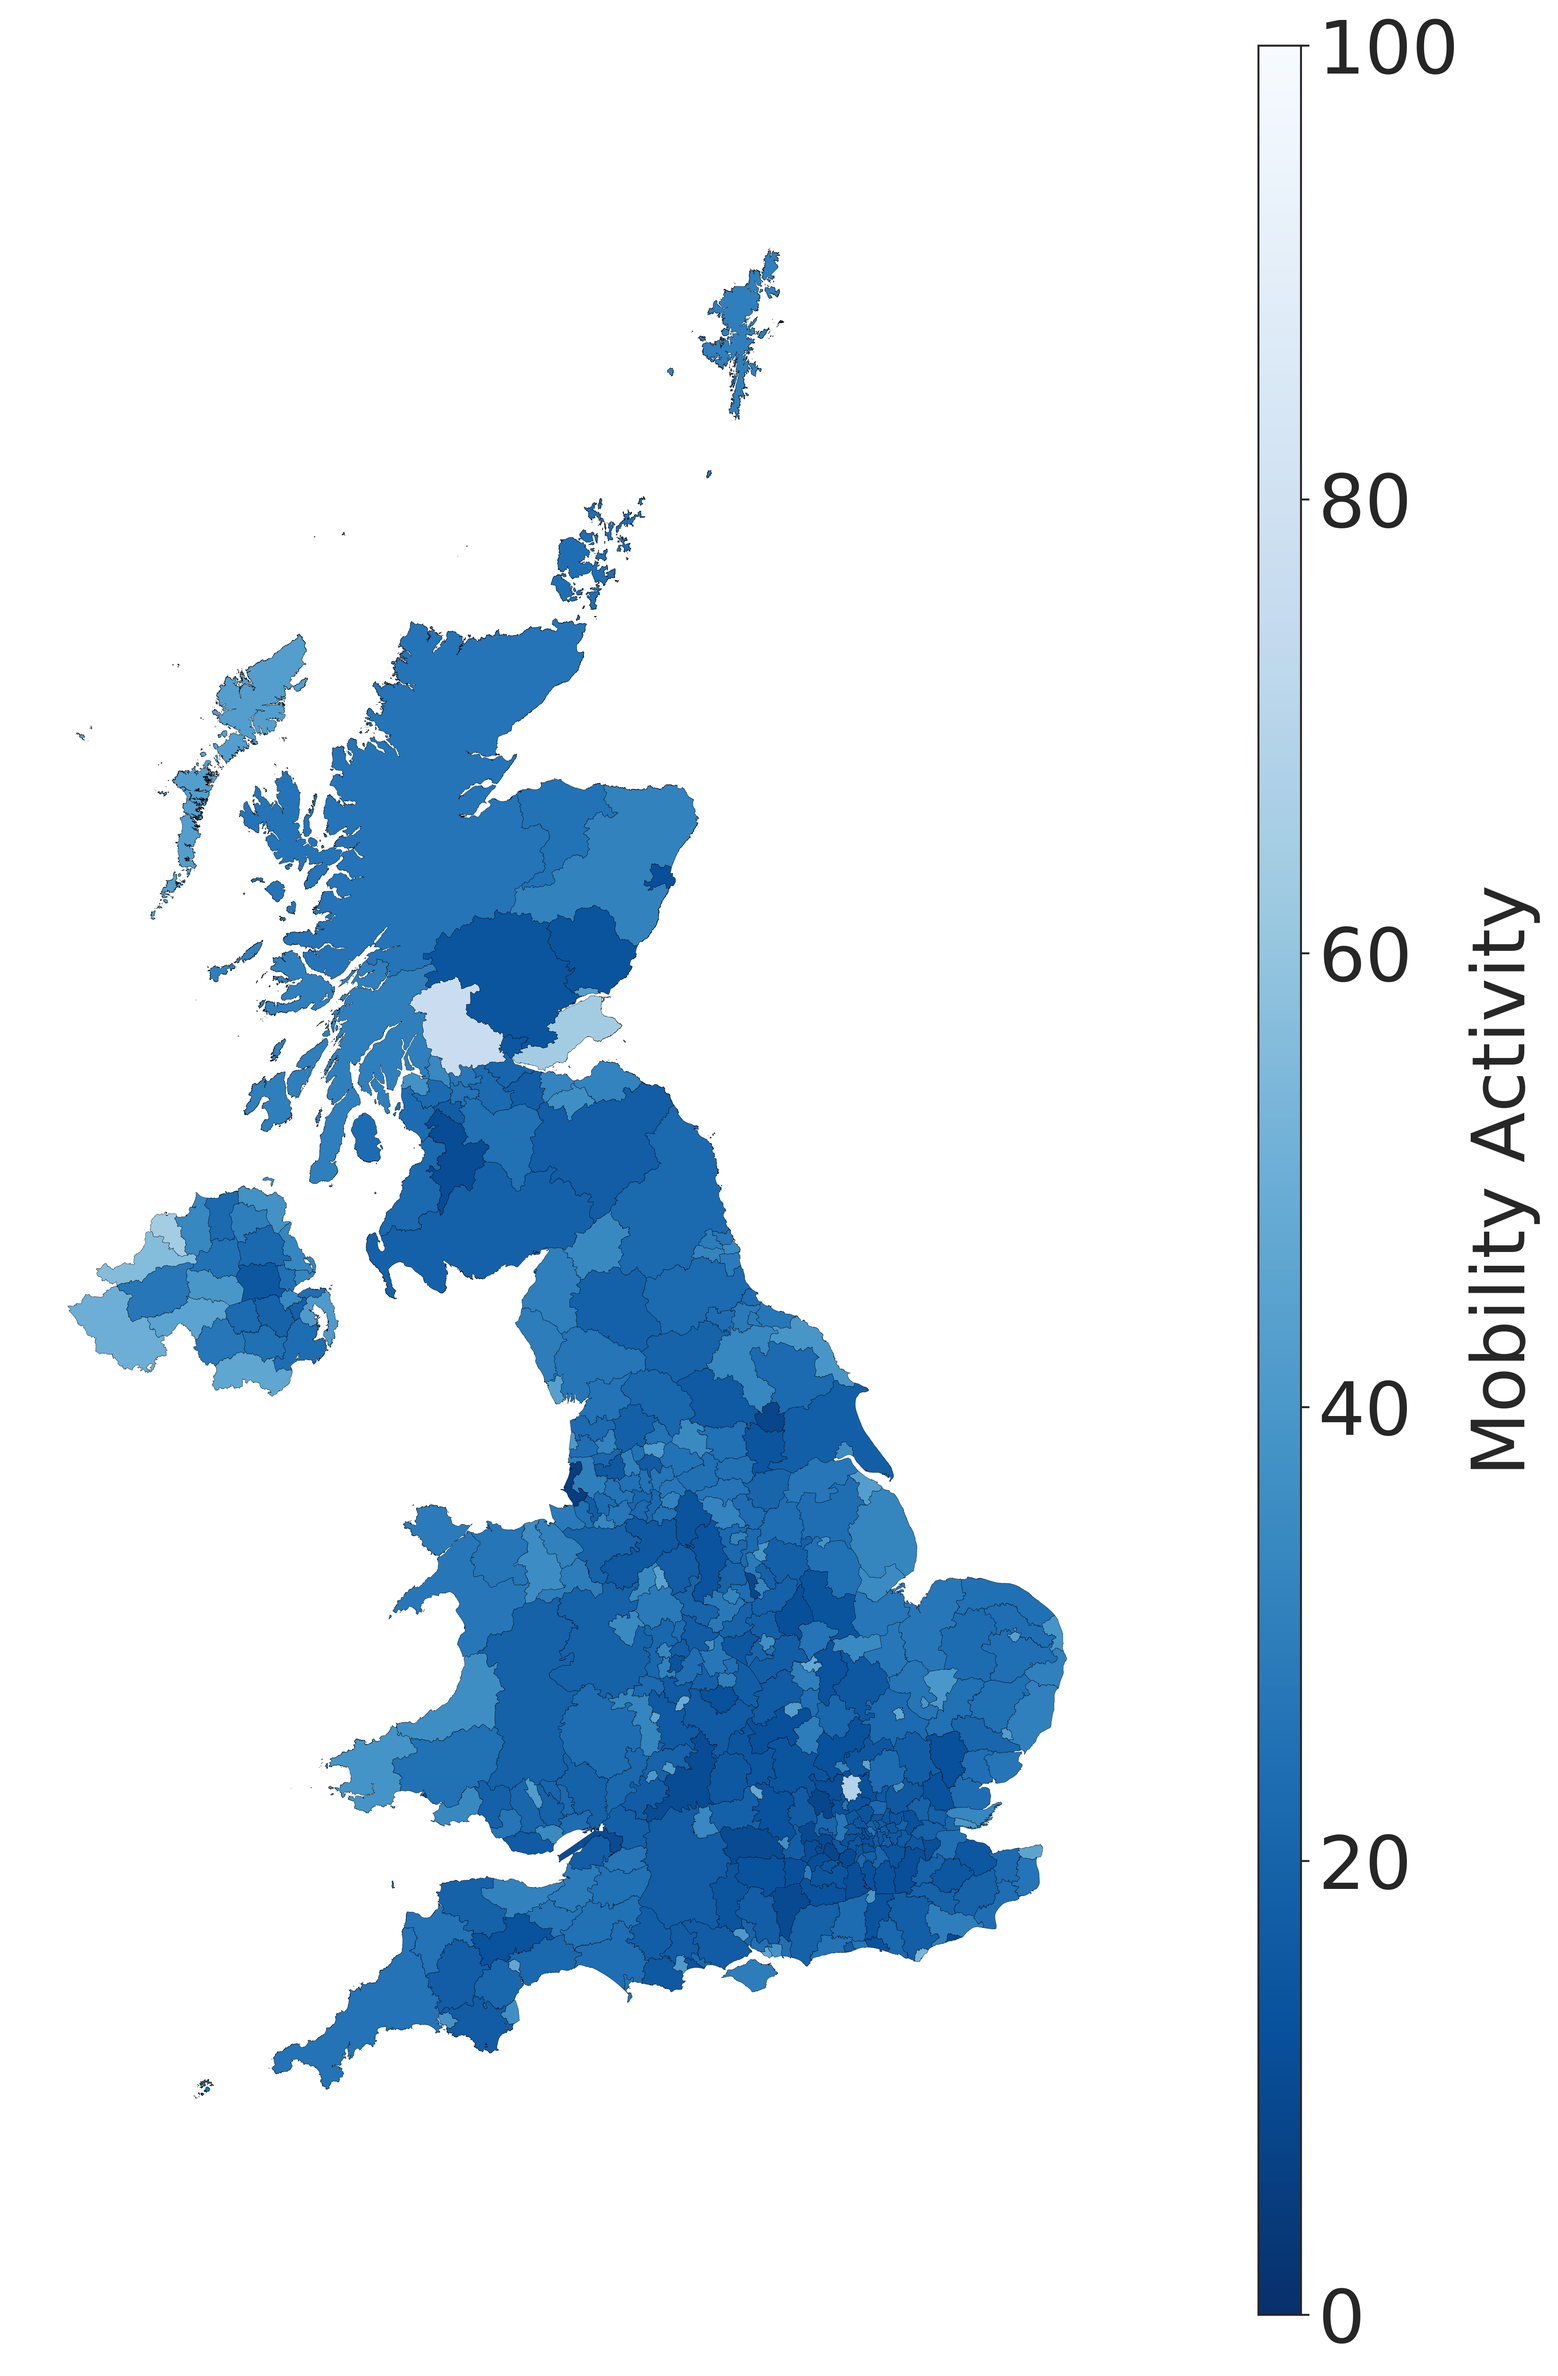
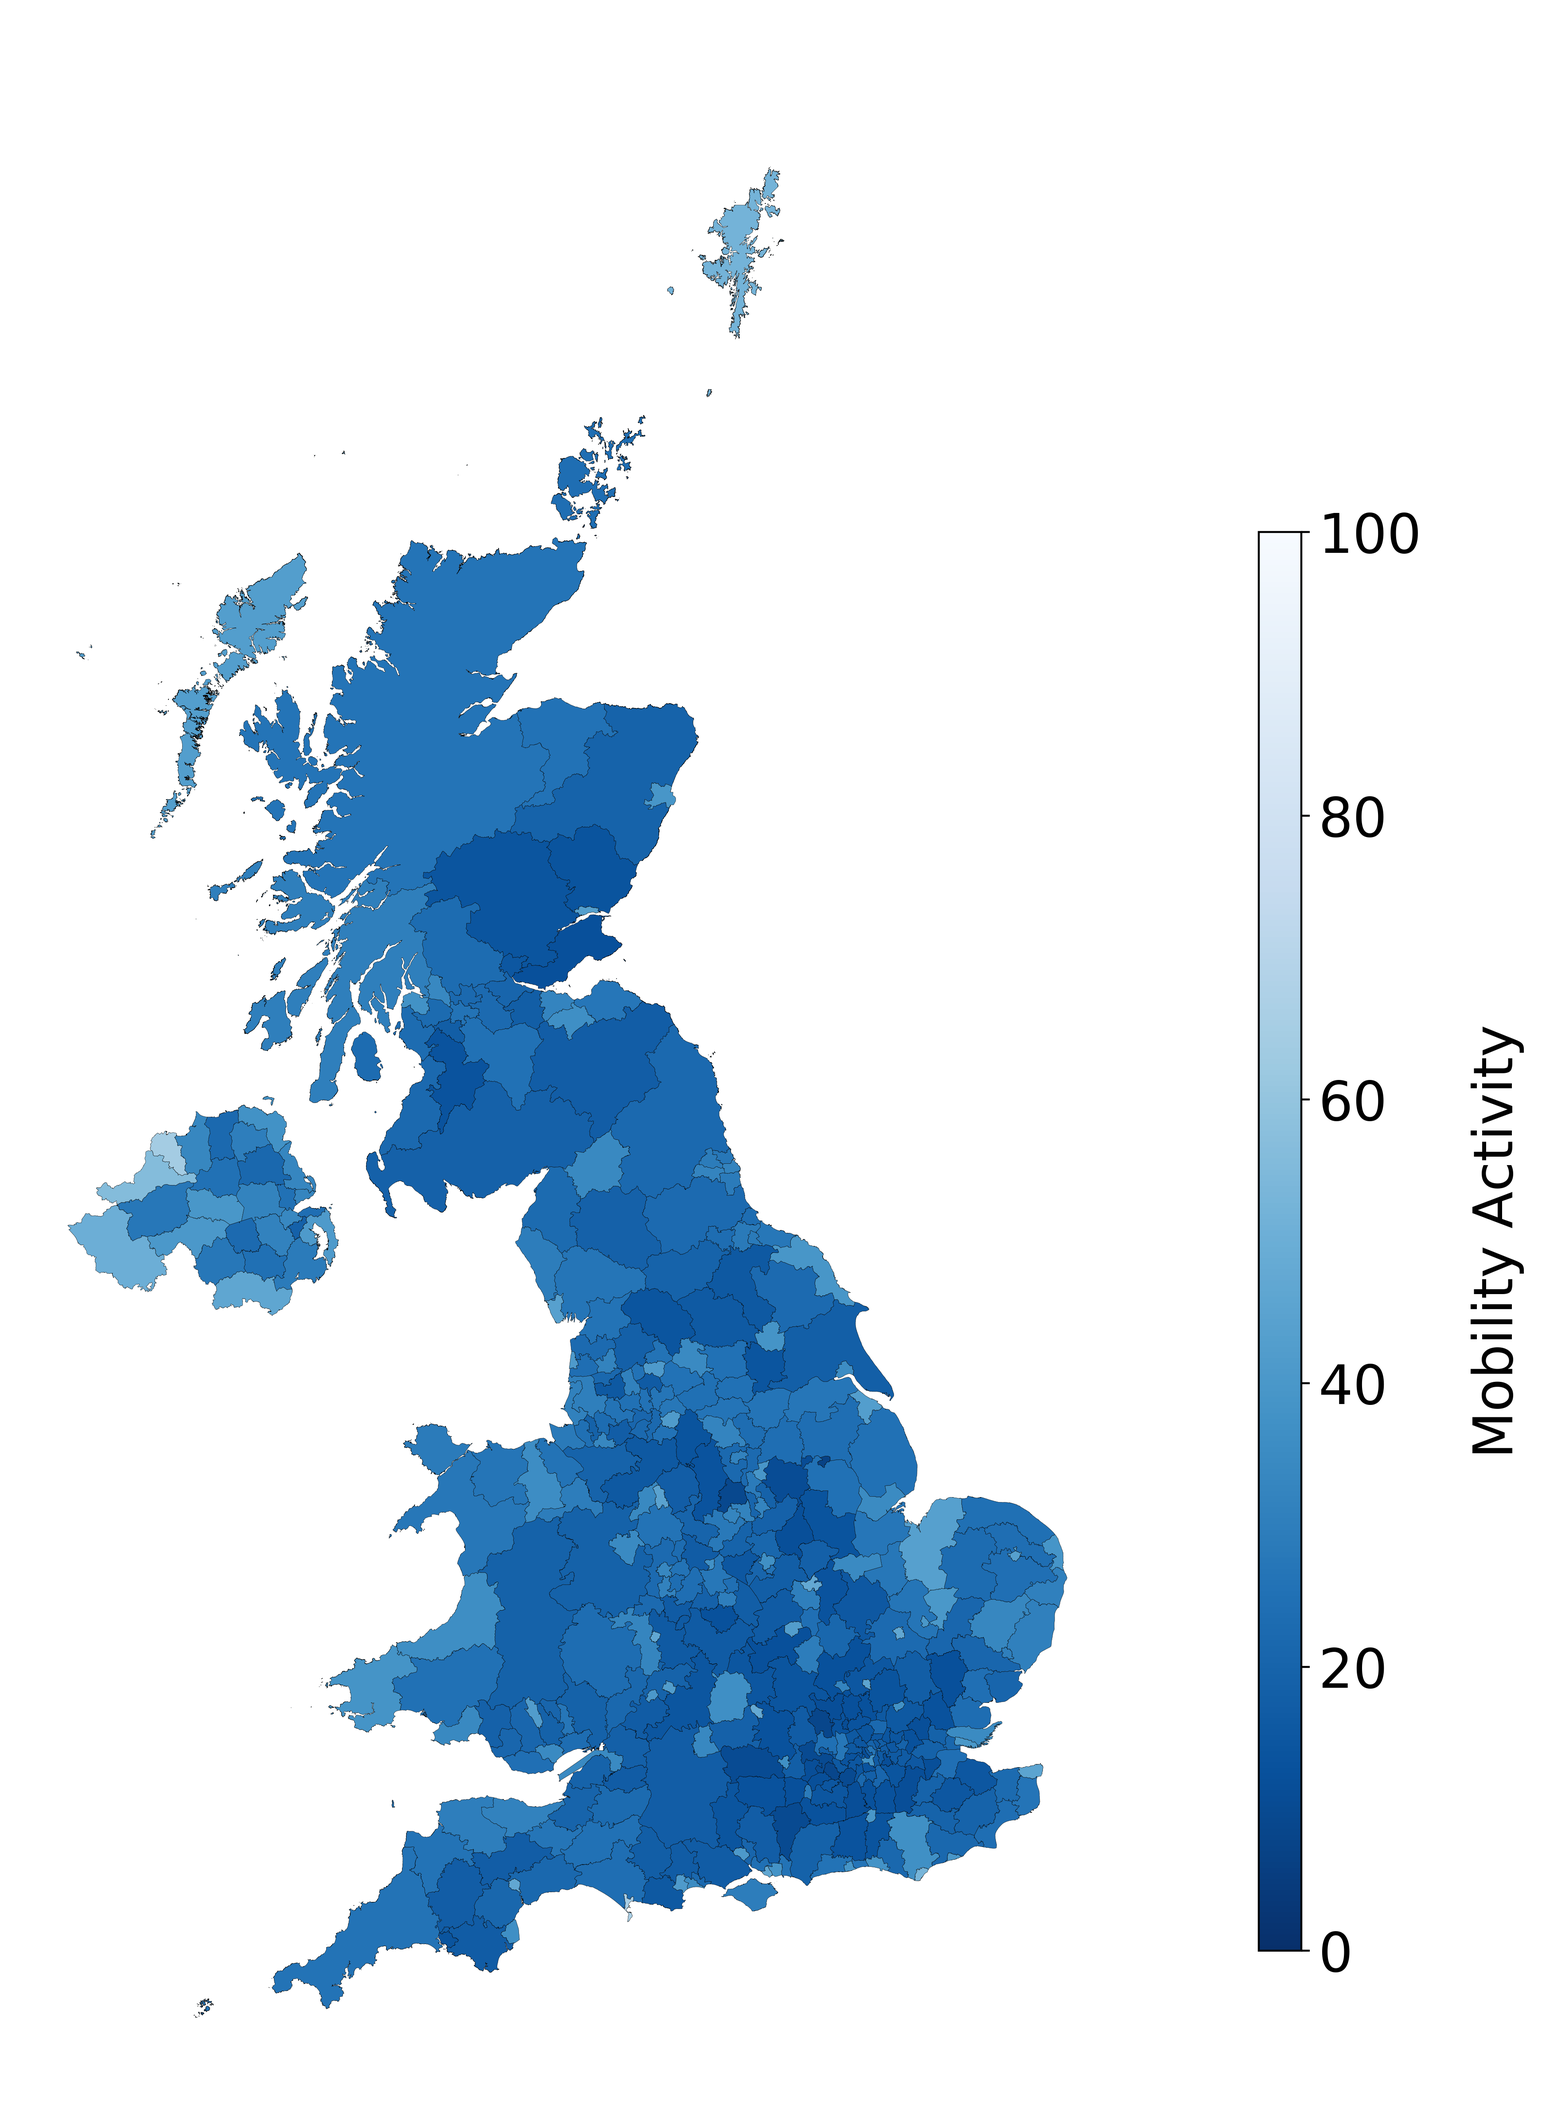
o

diff --git a/_site/First-report.html b/_site/First-report.html
@@ -41,7 +41,7 @@
     <div id="main_content_wrap" class="outer">
       <section id="main_content" class="inner">
         <p>Authors:
-<strong>Clodomir Santana Jr. (1), Federico Botta (1), Hugo Barbosa (1), Filippo Privitera (2), Ronaldo Menezes (1) and Riccardo Di Clemente (1).</strong></p>
+<strong>Clodomir Santana (1), Federico Botta (1), Hugo Barbosa (1), Filippo Privitera (2), Ronaldo Menezes (1) and Riccardo Di Clemente (1).</strong></p>
 
 <p>(1) Department of Computer Science, University of Exeter.
 <br />
@@ -102,19 +102,19 @@
 
 <p>In order to assess whether movement of people has reduced in the UK during the restriction measures, we first have to establish what the regular level of movement across country is. We refer to this as our baseline. We use the <em> radius of gyration </em> as our measure of mobility. The radius of gyration provides an indication of the characteristic distance travelled by a person during a given time period.
 <br />
-We estimate our baseline by considering the average mobility during the period between 28 and 31 of January 2020. This period is immediately before restriction measures were put into place by the British government, and it does not contain significant events, such as bank holidays or festivities, that may affect our baseline estimates. For our baseline, we use the median radius of gyration. <b>Figure 1 (A)</b> depicts the results of our baseline estimates at local authority level.
+We estimate our baseline by considering the average mobility during the period between 01 and 04 of February 2020. This period is immediately before restriction measures were put into place by the British government, and it does not contain significant events, such as bank holidays or festivities, that may affect our baseline estimates. For our baseline, we use the median radius of gyration. <b>Figure 1 (A)</b> depicts the results of our baseline estimates at local authority level.
 <br />
-As an example of a comparison between the baseline and another day, we selected the 18th of February and showed the comparison result in <b>Figure 1 (B)</b>. As the Figure shows, on an average day only few areas within the UK present a lower radius of gyration when compared to the baseline. This supports the validity of our baseline estimate, since on an average day we would not expect the radius of gyration to be very different from the baseline (note that there will always be a few areas with higher or lower mobility levels).</p>
+As an example of a comparison between the baseline and another day, we selected the 22th of February and showed the comparison result in <b>Figure 1 (B)</b>. As the Figure shows, on an average day only few areas within the UK present a lower radius of gyration when compared to the baseline. This supports the validity of our baseline estimate, since on an average day we would not expect the radius of gyration to be very different from the baseline (note that there will always be a few areas with higher or lower mobility levels).</p>
 
 <p><br /></p>
 <figure class="image" align="center">
 <img src="plots/Mobility_UK_new.png" style="width:600px" />
- <figcaption align="center"> <b>Figure 1</b> (A) We estimate the average levels of mobility across the UK to use as comparison throughout our analysis. As a measure of mobility, we use the radius of gyration, which indicates the typical distance travelled during the given time period. Here, we depict the median radius of gyration during the time period between 28 and 31 of January 2020. Areas with more intense red correspond to areas with a larger value of the radius of gyration.</figcaption>
+ <figcaption align="center"> <b>Figure 1</b> (A) We estimate the average levels of mobility across the UK to use as comparison throughout our analysis. As a measure of mobility, we use the radius of gyration, which indicates the typical distance travelled during the given time period. Here, we depict the median radius of gyration during the time period between 01 and 04 of February 2020. Areas with more intense red correspond to areas with a larger value of the radius of gyration.</figcaption>
 </figure>
 
 <figure class="image" align="center">
 <img src="plots/Uk_02_18_baseline_comp.png" style="width:600px" />
- <figcaption align="center"> <b>Figure 1</b>(B) We validate our baseline by comparing it to a typical day (18th February 2020) before the restriction measures came into place. Blue areas represent locations where the radius of gyration decreased, whereas grey areas represent no changes or an increase in the mobility. We find that, on a typical day, we do not observe many areas where the radius of gyration is lower than our baseline.</figcaption>
+ <figcaption align="center"> <b>Figure 1</b>(B) We validate our baseline by comparing it to a typical day (22th February 2020) before the restriction measures came into place. Blue areas represent locations where the radius of gyration decreased, whereas grey areas represent no changes or an increase in the mobility. We find that, on a typical day, we do not observe many areas where the radius of gyration is lower than our baseline.</figcaption>
 </figure>
 
 <h3 id="changes-in-mobility">Changes in mobility</h3>
